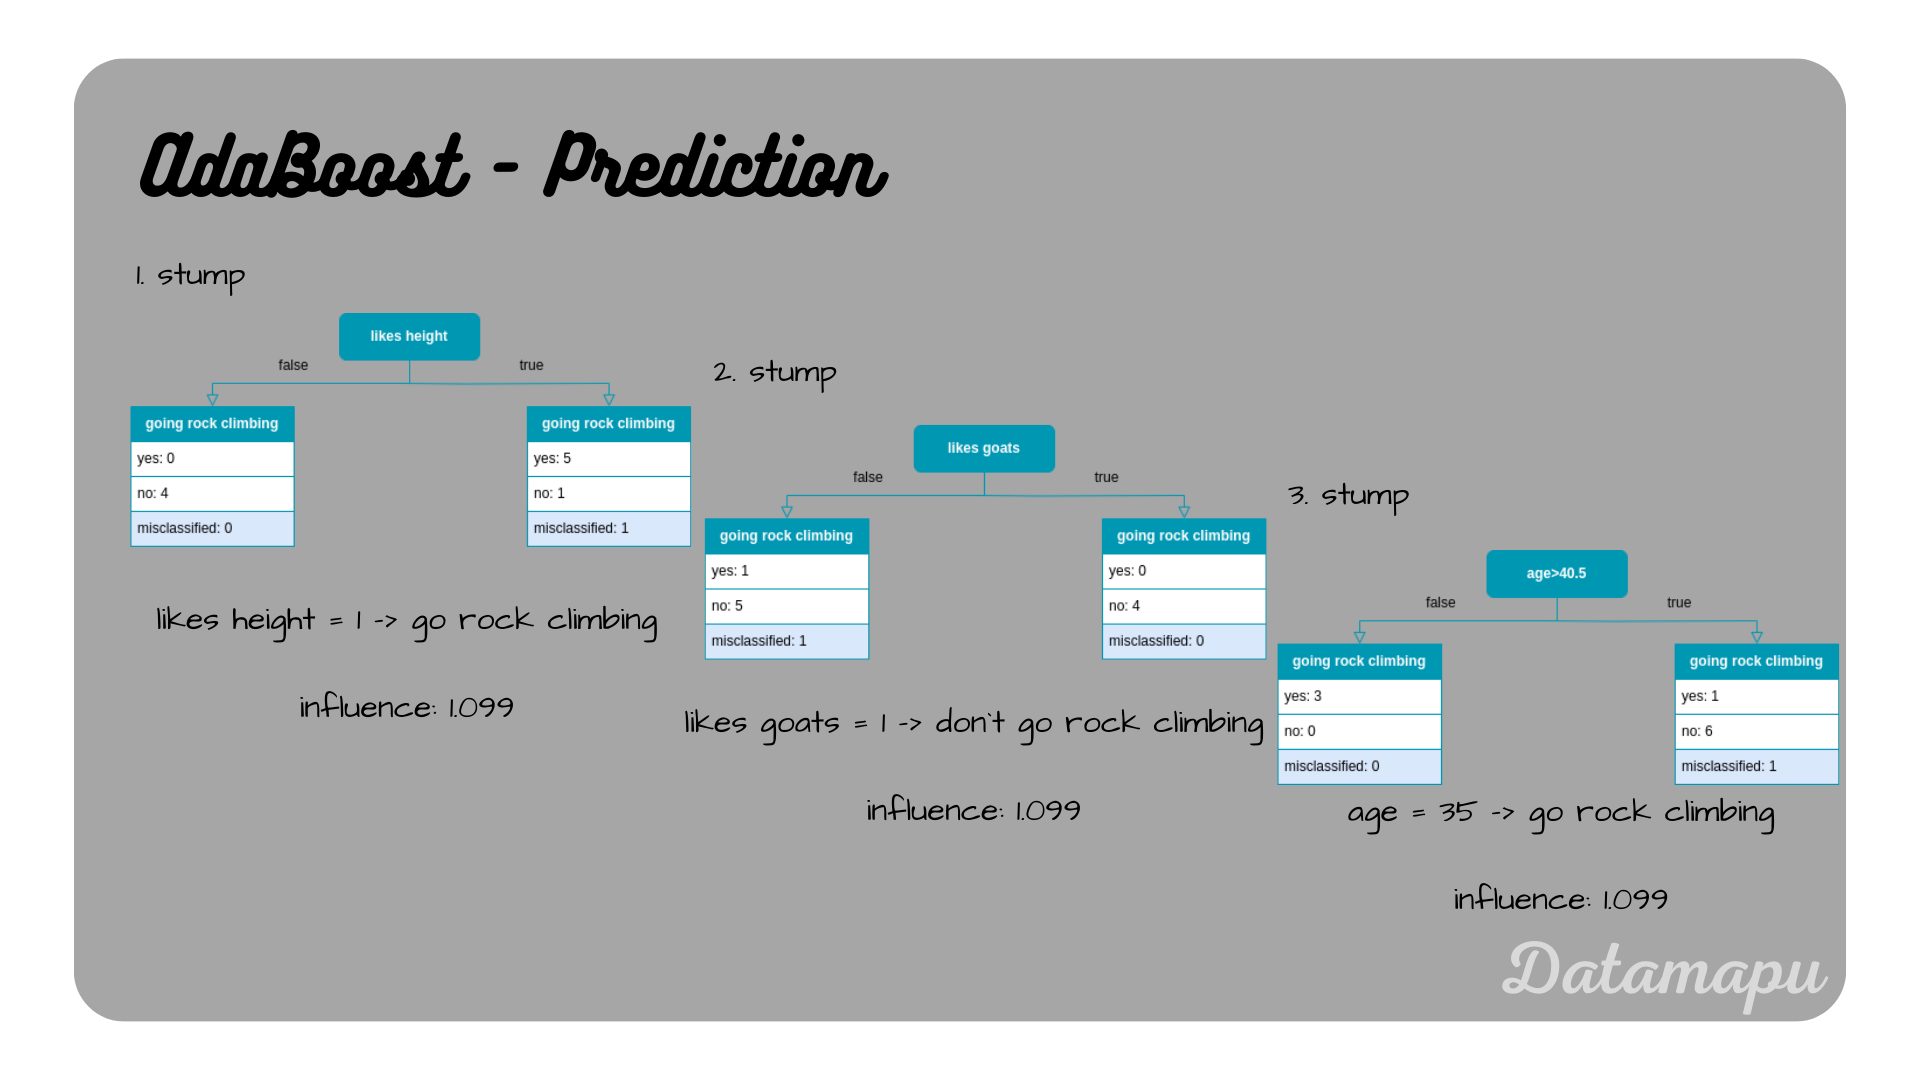
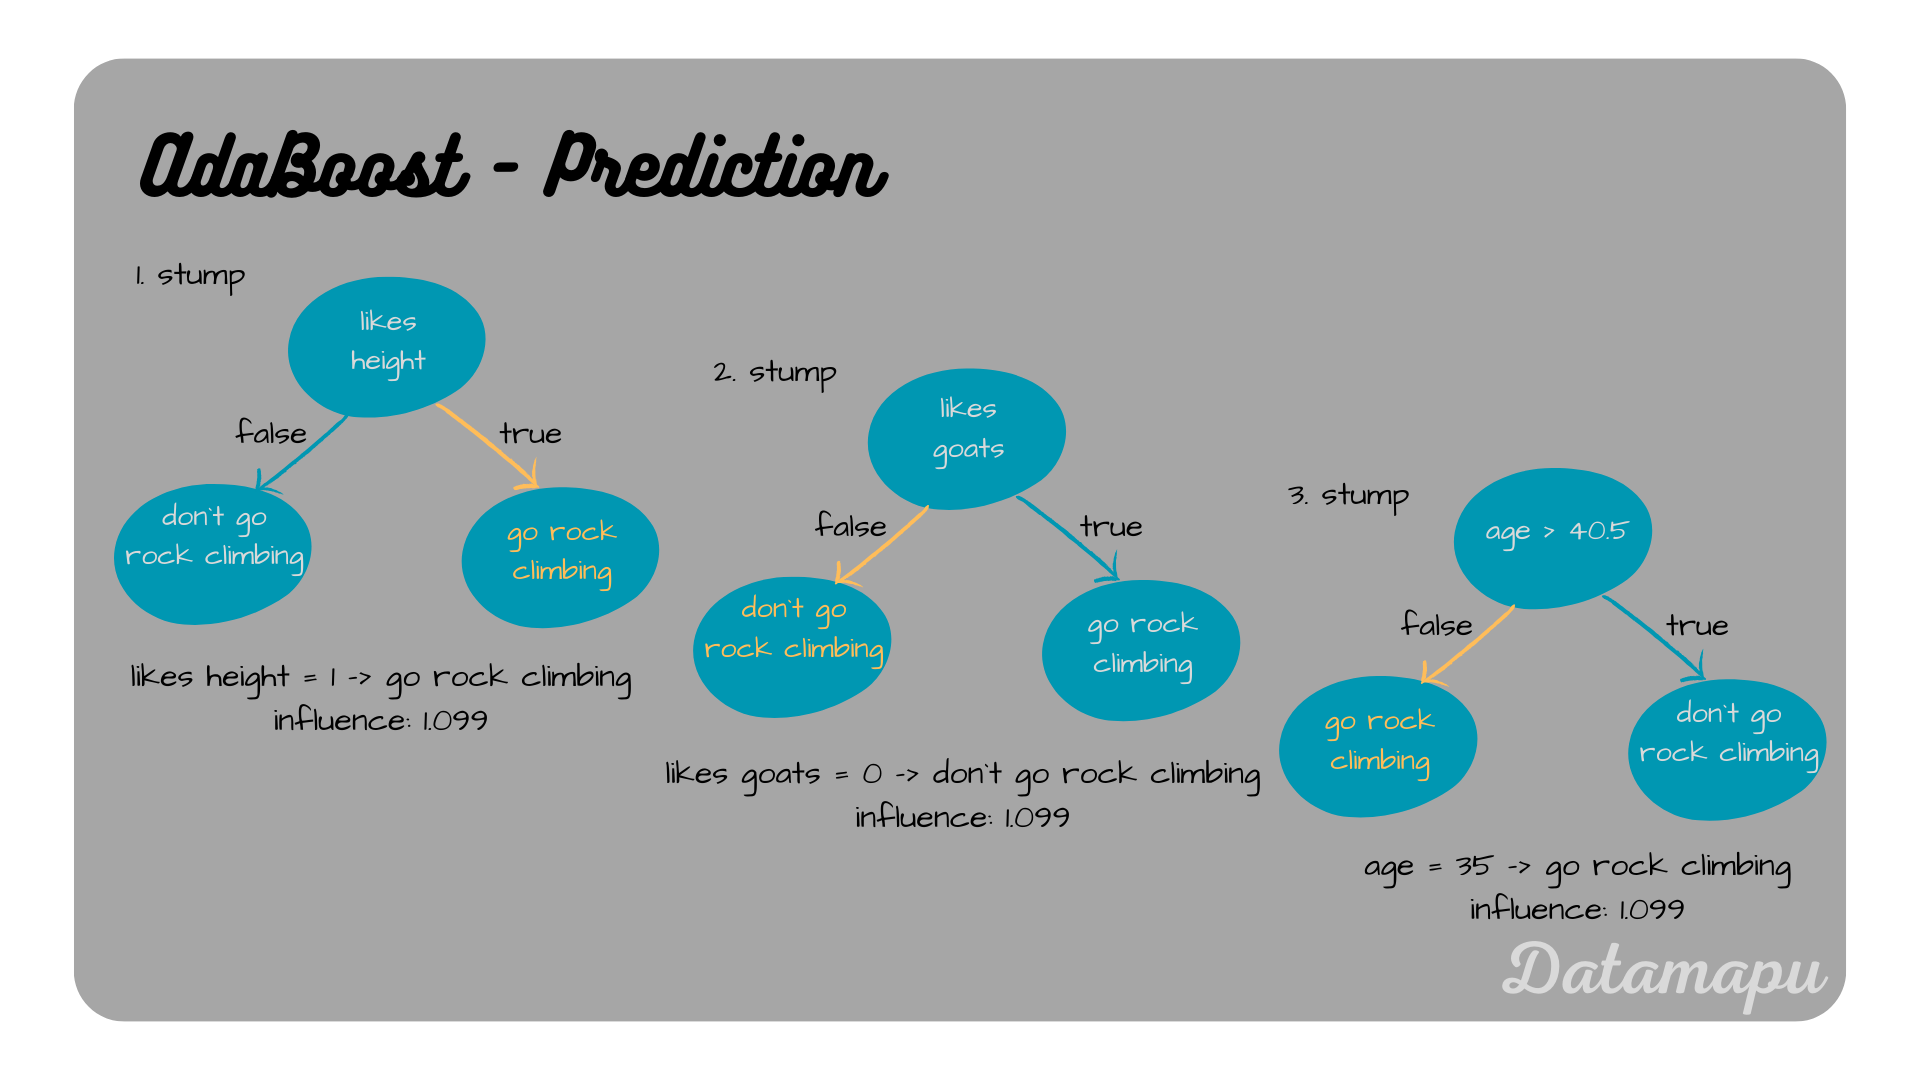
adaboost

Changed region(s): [[0.0625, 0.2444, 0.9688, 0.7639], [0.7188, 0.7944, 0.9375, 0.8556]]

diff --git a/content/posts/classical_ml/adaboost_example_clf.md b/content/posts/classical_ml/adaboost_example_clf.md
@@ -10,25 +10,25 @@ images = ['/images/adaboost/adaboost.png']
 
 ## Introduction
 
-AdaBoost is an ensemble model that is based on [Boosting]({{< ref "/posts/ml_concepts/ensemble.md#boosting">}}). The individual models are so-called weak learners, which means that they have only little predictive skill, and they are sequentially built to improve the errors of the previous one. A detailed description of the Algorithm can be found in the separate article [AdaBoost - Explained]({{< ref "/posts/classical_ml/adaboost.md">}}). In this post, we will focus on a concrete example for a classification task and develop the final ensemble model in detail. We will use [Decision Trees]({{< ref "/posts/classical_ml/decision_trees.md">}}) as a base model. A detailed example for a regression task is given in the article [AdaBoost for Regression - Example]().
+AdaBoost is an [ensemble]({{< ref "/posts/ml_concepts/ensemble.md">}}) model that is based on [Boosting]({{< ref "/posts/ml_concepts/ensemble.md#boosting">}}). The individual models are so-called weak learners, which means that they have only little predictive skill, and they are sequentially built to improve the errors of the previous one. A detailed description of the Algorithm can be found in the separate article [AdaBoost - Explained]({{< ref "/posts/classical_ml/adaboost.md">}}). In this post, we will focus on a concrete example for a classification task and develop the final ensemble model in detail. A detailed example of a regression task is given in the article [AdaBoost for Regression - Example]({{< ref "/posts/classical_ml/adaboost_example_reg.md">}}).
 
 ## Data
 
-The dataset used in this example contains of only 10 samples, to make the calculations by hand more feasible. It describes the problem whether a person should go rock climbing or not, depending on their age, and whether the person likes height and goats. This dataset was also in the article [Decision Trees for Classification - Example]({{< ref "/posts/classical_ml/decision_tree_classification_example.md">}}), which makes comparisons easier. The data is described in the plot below.  
+The dataset used in this example contains only 10 samples, to make the calculations by hand more feasible. It describes the problem of whether a person should go rock climbing or not, depending on their age, and whether the person likes height and goats. This dataset was also in the article [Decision Trees for Classification - Example]({{< ref "/posts/classical_ml/decision_tree_classification_example.md">}}), which makes comparisons easier. The data is described in the plot below.  
 
 ![adaboost_data_clf](/images/adaboost/adaboost_data.png)
 *Dataset used to develop an AdaBoost model.*
 
 ## Build the Model
 
-We build an AdaBoost model, constructed of [Decision Trees]({{< ref "/posts/classical_ml/decision_trees.md">}}) as weak learners, because this is the most common application. The underlying trees have depth $1$, that is only the *stump* of each tree is used as a weak learner. This is also the default configuration in [sklearn](https://scikit-learn.org/stable/modules/generated/sklearn.ensemble.AdaBoostClassifier.html), which we can use to fit a model in Python. We consider three weak learners to build the ensemble Adaboost model, for demonstration purposes. 
+We build an AdaBoost model, constructed of [Decision Trees]({{< ref "/posts/classical_ml/decision_trees.md">}}) as weak learners because this is the most common application. The underlying trees have depth one, that is only the *stump* of each tree is used as a weak learner. This is also the default configuration in [sklearn](https://scikit-learn.org/stable/modules/generated/sklearn.ensemble.AdaBoostClassifier.html), which we can use to fit a model in Python. Our ensemble model will consist of three weak learners. This number is chosen low for demonstration purposes. 
 
-The first step in building an AdaBoost model is asigning weights to the individual data points. In the beginning, for the inital model, all datapoints get the same weight asigned, which is $\frac{1}{N}$, with $N$ the dataset size.
+The first step in building an AdaBoost model is assigning weights to the individual data points. In the beginning, for the initial model, all data points get the same weight assigned, which is $\frac{1}{N}$, with $N$ the dataset size.
 
 ![adaboost_data_clf](/images/adaboost/ab_clf_data_first_stump.png)
 *Initial dataset and weights for the example.*
 
-We now start with fitting a [Decision Tree]({{< ref "/posts/classical_ml/decision_trees.md">}}) to this data. As stated earlier we will use decision stumps, that is we are only interested in the first split.  This exact same data was used in [Decision Trees for Classification - Example]({{< ref "/posts/classical_ml/decision_tree_classification_example.md">}}) to develop a Decision Tree by hand, please check there for the datails how to develop a Decision Tree and how to find the best split. The resulting stump is shown in the following plot. In AdaBoost each underlying model - in our case decision stumps - gets a different weight, which is the so-called *influence* $\alpha$. The influence depends on the *Total Error* of the model, which for a classification task is equal to the number of wrongly classified samples divided by the total number of samples. The influence is defined as
+We now start with fitting a [Decision Tree]({{< ref "/posts/classical_ml/decision_trees.md">}}) to this data. As stated earlier we will use decision stumps, that is we are only interested in the first split.  The same data was used in [Decision Trees for Classification - Example]({{< ref "/posts/classical_ml/decision_tree_classification_example.md">}}) to develop a Decision Tree by hand, please check there for the details on how to develop a Decision Tree and how to find the best split. The resulting stump is shown in the following plot. In AdaBoost, each underlying model - in our case decision stumps - gets a different weight, which is the so-called *influence* $\alpha$. The influence depends on the *Total Error* of the model, which is equal to the number of wrongly classified samples divided by the total number of samples. The influence is defined as
 
 $$\alpha =  \frac{1}{2} \ln\Big(\frac{1 - TotalError}{TotalError}\Big).$$
 
@@ -53,17 +53,17 @@ accordingly. These weights still need to be normalized, so that their sum equals
 ![adaboost_data_new_weights1](/images/adaboost/ab_example_clf_second_stump_data_weights.png)
 *The dataset with updated weights based on the influence $\alpha$.*
 
-The weights are used to create bins. Let's assume we have the weights $w_1, w_2, \dots, w_N$, the the bin for the first sample is $[0, w_1]$, for the second sample, $[w_1, w_1+w_2]$, etc. In our example  the bin the first sample is $[0, 0.056]$, for the second $[0.056,0.112]$, etc.. The following plot shows all samples with their bins.
+The weights are used to create bins. Let's assume we have the weights $w_1, w_2, \dots, w_N$, the bin for the first sample is $[0, w_1]$, for the second sample, $[w_1, w_1+w_2]$, etc. In our example, the bin of the first sample is $[0, 0.056]$, for the second $[0.056,0.112]$, etc.. The following plot shows all samples with their bins.
 
 ![adaboost_data_bins1](/images/adaboost/ab_example_clf_bins1.png)
 *The dataset with bins based on the weights.*
 
-Now, some randomness comes into play. Random numbers between $0$ and $1$ are drawn, then we check in which bin the random number falls, and the according data sample is selected for the new modified dataset. We draw as many numbers as the length of our dataset is, that is in this example we draw $10$ numbers. Due to the higher weight of the misclassified example, this example has a larger bin and the probabilty to draw it is higher. Let's assume we draw the numbers $[0.1, 0.15, 0.06, 0.5, 0.65, 0.05, 0.8, 0.7, 0.95, 0.97]$, which leads to the selection of the samples $[1, 2, 1, 8, 8, 0, 8, 8, 9, 9]$. The modified dataset, then has the following form.
+Now, some randomness comes into play. Random numbers between $0$ and $1$ are drawn, then we check in which bin the random number falls, and the according data sample is selected for the new modified dataset. We draw as many numbers as the length of our dataset is, that is in this example we draw $10$ numbers. Due to the higher weight of the misclassified example, this example has a larger bin, and the probability of drawing it is higher. Let's assume we draw the numbers $[0.1, 0.15, 0.06, 0.5, 0.65, 0.05, 0.8, 0.7, 0.95, 0.97]$, which leads to the selection of the samples $[1, 2, 1, 8, 8, 0, 8, 8, 9, 9]$. The modified dataset then has the following form.
 
 ![adaboost_data2](/images/adaboost/ab_clf_data_first_second_stump.png)
 *Modified dataset to build the second stump.*
 
-We now use this modified dataset to create the second stump. Following the steps described in [Decision Trees for Classification - Example]({{< ref "/posts/classical_ml/decision_tree_classification_example.md">}}), we achive the following decision stump. Additionally the influence $\alpha$ of this stump is calculated.
+We now use this modified dataset to create the second stump. Following the steps described in [Decision Trees for Classification - Example]({{< ref "/posts/classical_ml/decision_tree_classification_example.md">}}), we achieve the following decision stump. Additionally, the influence $\alpha$ of this stump is calculated.
 
 ![adaboost_first_stump](/images/adaboost/ab_example_clf_second_stump.png)
 *The second stump, i.e. the second weak learner for our AdaBoost algorithm.*
@@ -76,16 +76,16 @@ For the first sample, this results in
 
 $$w_{new} = 0.056 \cdot e^{-1.099} = 0.0185.$$
 
-The second sample, was the only one misclassified, so the sign in the exponent needs to be changed
+The second sample was the only one misclassified, so the sign in the exponent needs to be changed
 
 $$w_{new} = 0.056 \cdot e^{1.099} = 0.167.$$
 
-The following plot shows all samples together with their old weights, new weights, and the normalized weights.
+The following plot shows all samples together with their old weights, new weights, and normalized weights.
 
 ![adaboost_data_new_weights2](/images/adaboost/ab_example_clf_new_weights_norm.png)
 *The dataset with updated weights based on the influence $\alpha$.*
 
-We convert the weights into bins.
+As in the first iteration, we convert the weights into bins.
 
 ![adaboost_data_new_bins2](/images/adaboost/ab_example_clf_second_stump_bins2.png)
 *The modified dataset with bins based on the weights.*
@@ -95,12 +95,12 @@ We repeat the bootstrapping and draw $10$ random numbers between $0$ and $1$. Le
 ![adaboost_data_modified](/images/adaboost/ab_example_clf_modified_data_stump3_.png)
 *Modified dataset based on the weights.*
 
-We can now fit the third an last stump of our model to this modified dataset and calculate its influence. The result is shown in the next plot.
+We can now fit the third and last stump of our model to this modified dataset and calculate its influence. The result is shown in the next plot.
 
 ![adaboost_first_stump](/images/adaboost/ab_example_clf_third_stump3.png)
 *The third stump, i.e. the last weak learner for our AdaBoost algorithm.*
 
-Again, one sample is misclassified, which leads to the same influence $\alpha$ as previously. Note, that this is due to the very simplified dataset considered, in a more realistic example the influences of the different models would differ. We now use the individual trees and their calculated values for $\alpha$ to determine the final prediction. Let's consider one of the samples in the dataset. 
+Again, one sample is misclassified, which leads to the same influence $\alpha$ as previously. Note, that this is due to the very simplified dataset considered, in a more realistic example the influences of the different models would differ. We now use the individual trees and their calculated values $\alpha$ to determine the final prediction. Let's consider one of the samples in the dataset. 
 
 |Feature     | Value|
 |:----------:|:----:|
@@ -113,7 +113,7 @@ We now make predictions for each of the three stumps for this sample.
 ![adaboost_first_stump](/images/adaboost/ab_example_clf_predictions1_.png)
 *The three underlying models and their predictions for the sample.*
 
-The final prediction is achieved by adding up the influences of each tree for the predicted classes. In this example the first and the third stump predict "go rock climbing" and the secong stump predicts "don't go rock climbing". The first and the third stump have an influence of $1.099 + 0.69 = 1.789$, and the second stump has an influence of $1.099$. That means the influence for the prediction "go rock climbing" is higher and this is our final prediction.
+The final prediction is achieved by adding up the influences of each tree for the predicted classes. In this example the first and the third stump predict "go rock climbing" and the second stump predicts "don't go rock climbing". The first and the third stump have an influence of $1.099 + 1.099 = 2.198$, and the second stump has an influence of $1.099$. That means the influence for the prediction "go rock climbing" is higher and this is thus our final prediction.
 
 ![adaboost_first_stump](/images/adaboost/ab_example_clf_predictions2_.png)
 *The predictions and their influences to determine the final prediction.*
@@ -121,7 +121,7 @@ The final prediction is achieved by adding up the influences of each tree for th
 
 ## Fit a Model in Python
 
-We now fit the example in Python using [sklearn](https://scikit-learn.org/stable/modules/generated/sklearn.ensemble.AdaBoostClassifier.html). Note, that the results are not exactly the same due to the randomness in the bootstrapping and the implementation algorithm of the estimators used in sklearn, which at the time writing this post has the default value of *SAMME.R*. To fit a model, we first define our dataset as a dataframe.
+We now fit the example in Python using [sklearn](https://scikit-learn.org/stable/modules/generated/sklearn.ensemble.AdaBoostClassifier.html). Note, that the results are not exactly the same due to the randomness in the bootstrapping and the implementation algorithm of the estimators used in sklearn, which at the time of writing this post has the default value of *SAMME.R*. To fit a model, we first define our dataset as a data frame.
 
 ```Python
 import pandas as pd
@@ -134,7 +134,7 @@ data = {'age': [23, 31, 35, 35, 42, 43, 45, 46, 46, 51],
 df = pd.DataFrame(data)
 ```
 
-We use the [sklearn](https://scikit-learn.org/stable/modules/generated/sklearn.ensemble.AdaBoostClassifier.html) methon *AdaBoostClassifier* to fit a model to the data. According to our example, we set the hyperparameter *n_estimators=3*, which means that three Decision Tree stumps are used for the ensemble model. Note, that for a real world project, this hyperparamter would be chosen larger, the default value is $100$. The remaining hyperparamters are left as default values.
+We use the [sklearn](https://scikit-learn.org/stable/modules/generated/sklearn.ensemble.AdaBoostClassifier.html) method *AdaBoostClassifier* to fit a model to the data. According to our example, we set the hyperparameter *n_estimators=3*, which means that three Decision Tree stumps are used for the ensemble model. Note, that for a real-world project, this hyperparameter would be chosen larger, the default value is $100$. The remaining hyperparameters are left as default values.
  
 ```Python
 from sklearn.ensemble import AdaBoostClassifier
@@ -152,11 +152,11 @@ To get the predictions, we can use the *predict* method method.
 y_hat = clf.predict(X)
 ```
 
-For this example, the predictions are $[0, 1, 1, 0, 0, 1, 0, 1, 0, 1]$, which means that all samples are correctly predicted. We can also print he predictions and scores of the individual models. Please check the related article [AdaBoost - Explained]({{< ref "/posts/classical_ml/adaboost.md#python">}}) for some more details about this. A more realistic example with a larger dataset is provided on [kaggle]().
+For this example, the predictions are $[0, 1, 1, 0, 0, 1, 0, 1, 0, 1]$, which means that all samples are correctly predicted. We can also print the predictions and scores of the individual models. Please check the related article [AdaBoost - Explained]({{< ref "/posts/classical_ml/adaboost.md#python">}}) for some more details about this. A more realistic example with a larger dataset is provided on [kaggle](https://www.kaggle.com/pumalin/adaboost-tutorial).
 
 ## Summary
 
-In this article, we illustrated in detail how to develop an AdaBoost model for a classification task. We used a simplified example to make the calculations easy to follow. We followed the most standard way of developing an AdaBoost ensemble model, that is the underlying base models were chosen as the stumps of Decision Trees. You can find a similar example for a regression task in the related article [AdaBoost for Regression - Example]({{< ref "/posts/classical_ml/adaboost_example_reg.md">}}) and a detailed explanation and visualization of the algorithm in [AdaBoost - Explained]({{< ref "/posts/classical_ml/adaboost.md">}}) 
+In this article, we illustrated in detail how to develop an AdaBoost model for a classification task. We used a simplified example to make the calculations easy to follow. We followed the most standard way of developing an AdaBoost ensemble model, that is the underlying base models were chosen as the stumps of Decision Trees. You can find a similar example for a regression task in the related article [AdaBoost for Regression - Example]({{< ref "/posts/classical_ml/adaboost_example_reg.md">}}) and a detailed explanation and visualization of the algorithm in [AdaBoost - Explained]({{< ref "/posts/classical_ml/adaboost.md">}}). 
 
 If this blog is useful for you, I'm thankful for your support!
 {{< bmc-button slug="pumaline" >}}

diff --git a/content/posts/classical_ml/adaboost.md b/content/posts/classical_ml/adaboost.md
@@ -47,7 +47,7 @@ As mentioned earlier the most common way of constructing AdaBoost is using [Deci
 
 ## AdaBoost in Python{#python}
 
-The [sklearn](https://scikit-learn.org/stable/) library offers a method to fit AdaBoost in Python for both [classification](https://scikit-learn.org/stable/modules/generated/sklearn.ensemble.AdaBoostClassifier.html) and [regression](https://scikit-learn.org/stable/modules/generated/sklearn.ensemble.AdaBoostRegressor.html#sklearn.ensemble.AdaBoostRegressor) problems. We will consider a simplified example for a classification task, using the following data, which describes whether a person should go rock climbing or not depending on their age and whether they like heights and goats.
+The [sklearn](https://scikit-learn.org/stable/) library offers a method to fit AdaBoost in Python for both [classification](https://scikit-learn.org/stable/modules/generated/sklearn.ensemble.AdaBoostClassifier.html) and [regression](https://scikit-learn.org/stable/modules/generated/sklearn.ensemble.AdaBoostRegressor.html#sklearn.ensemble.AdaBoostRegressor) problems. We will consider a simplified example for a classification task, using the following data, which describes whether a person should go rock climbing or not depending on their age and whether they like height and goats.
 
 ```Python
 import pandas as pd
